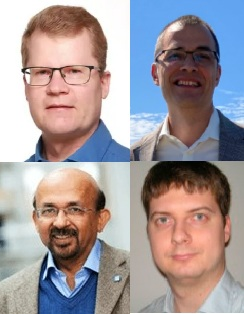
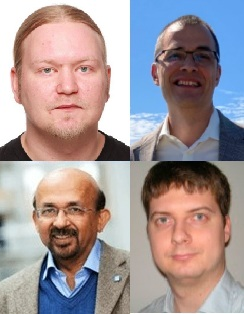
Speaker changes.

Changed region(s): [[0.0, 0.0, 0.5451, 0.5159]]

diff --git a/summer2025.html b/summer2025.html
@@ -481,7 +481,7 @@
 										<td>
 											<div style="float: left;">
 												<img src="images/summer_25/claus_friis_pedersen.jpg" alt="" style="margin-right: 0.5em; width:75px;"/>
-												<img src="images/summer_25/avatar.jpg" alt="" style="margin-right: 1em; width:75px;"/>
+												<img src="images/summer_25/lars_palm.jpg" alt="" style="margin-right: 1em; width:75px;"/>
 											</div>
 											<div style="float: none;"> 
 												<strong>A Nordic and European perspective on chips</strong>
@@ -509,7 +509,7 @@
 											<div style="float: none;"> 
 												<strong>The Edu4Chip project</strong>
 												<br>
-												<i>by Dr.-Ing. habil. Michael Pehl (Technical University of Munich), Prof. Timo Hämäläinen (Tampere University), Prof. Jean-Max Dutertre (Institut Mines-Télécom), Prof. Ahmed Hemani (KTH Royal Institute of Technology), and Assoc. Prof. Matthias Bo Stuart (Technical University of Denmark DTU)</i>
+												<i>by Dr.-Ing. habil. Michael Pehl (Technical University of Munich), Univ. Instuctor Arto Oinonen (Tampere University), Prof. Jean-Max Dutertre (Institut Mines-Télécom), Prof. Ahmed Hemani (KTH Royal Institute of Technology), and Assoc. Prof. Matthias Bo Stuart (Technical University of Denmark DTU)</i>
 											</div>
 											<div style="float: inline-end;"> 
 												The presentation will highlight the structure and objectives of the project, including joint courses offered at the partner institutions, opportunities for student exchange, and the possibility of pursuing Master's thesis projects within the Edu4Chip framework. 
@@ -518,27 +518,6 @@
 									</tr>
 								</tbody>
 							</table>
-
-
-							<!--table>
-								<tbody>
-									<tr>
-										<td>
-											<div style="float: left;">
-												<img src="images/summer_25/flemming_stassen.jpg" alt="" style="margin-right: 1em; width:75px;"/>
-											</div>
-											<div style="float: none;"> 
-												<strong>From the 1st transistor, to FinFETs, and beyond</strong>
-												<br>
-												<i>by Assoc. Prof. Flemming Stassen, Technical University of Denmark</i>
-											</div>
-											<div style="float: inline-end;"> 
-												This keynote explores the evolution of transistor technology, tracing its journey from the first prototypes to modern FinFETs, and providing insights into emerging trends and future advancements in the field.
-											</div>
-										</td>
-									</tr>
-								</tbody>
-							</table-->
 							<table>
 								<tbody>
 									<tr>
